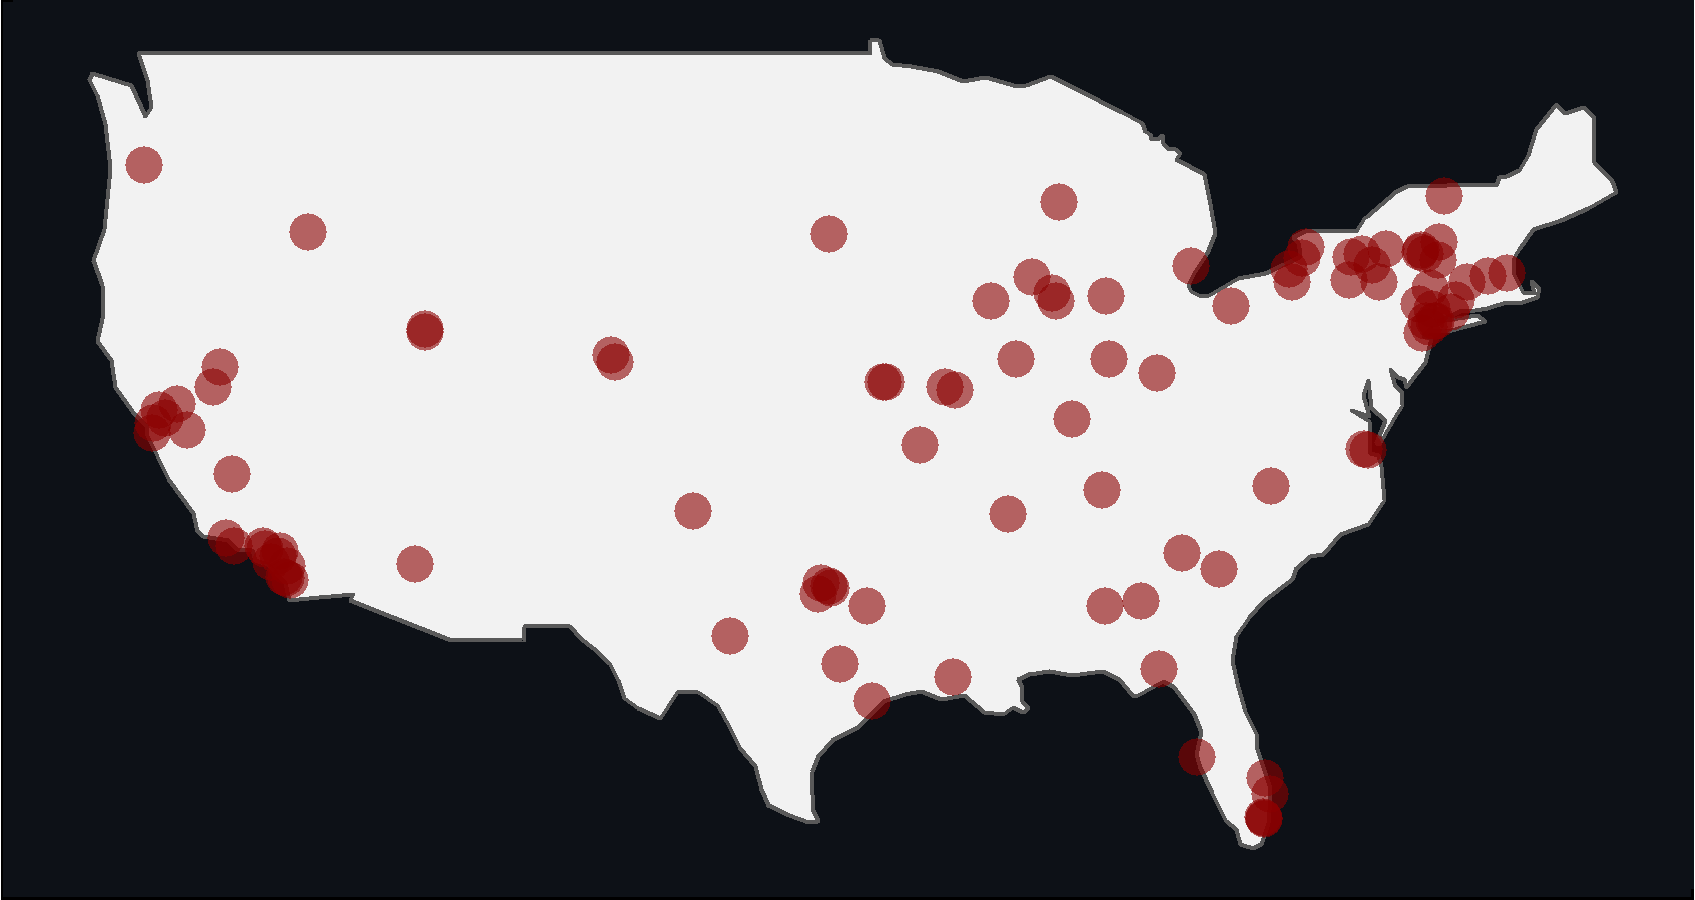
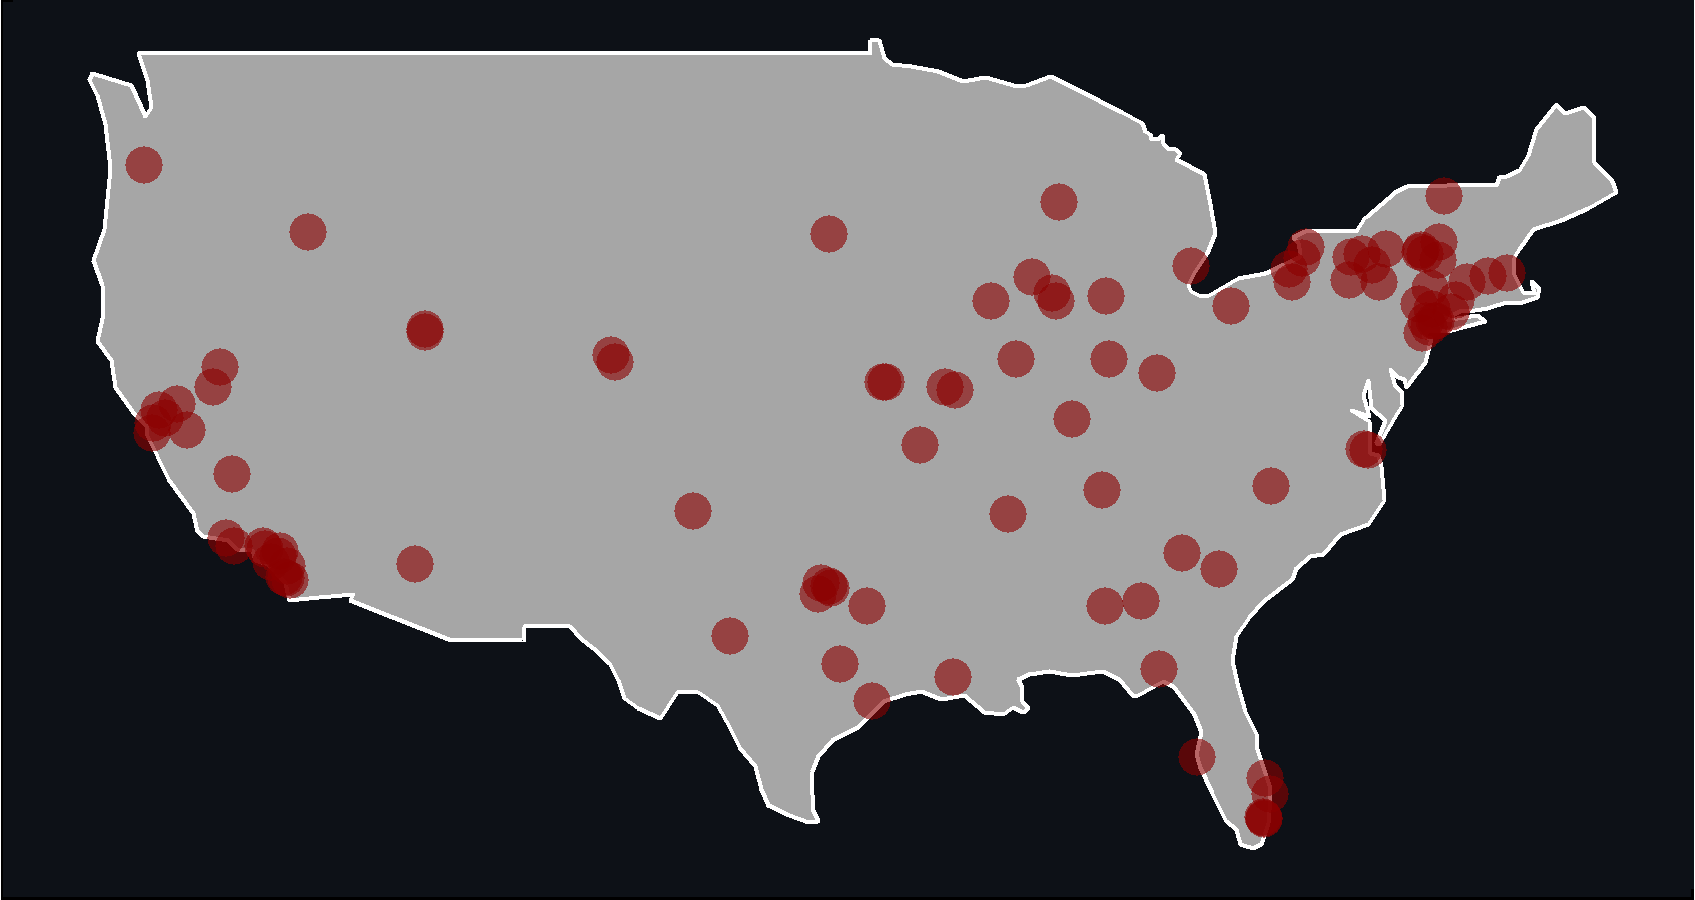
readme

diff --git a/README.md b/README.md
@@ -89,7 +89,8 @@ cit_sf <- cities %>%
 
 ggplot() +
   geom_sf(data = usa,
-          fill = "grey95") +
+          fill = "grey65",
+          color = "white") +
   geom_sf(data = cit_sf,
           size = 4,
           shape = 21,
